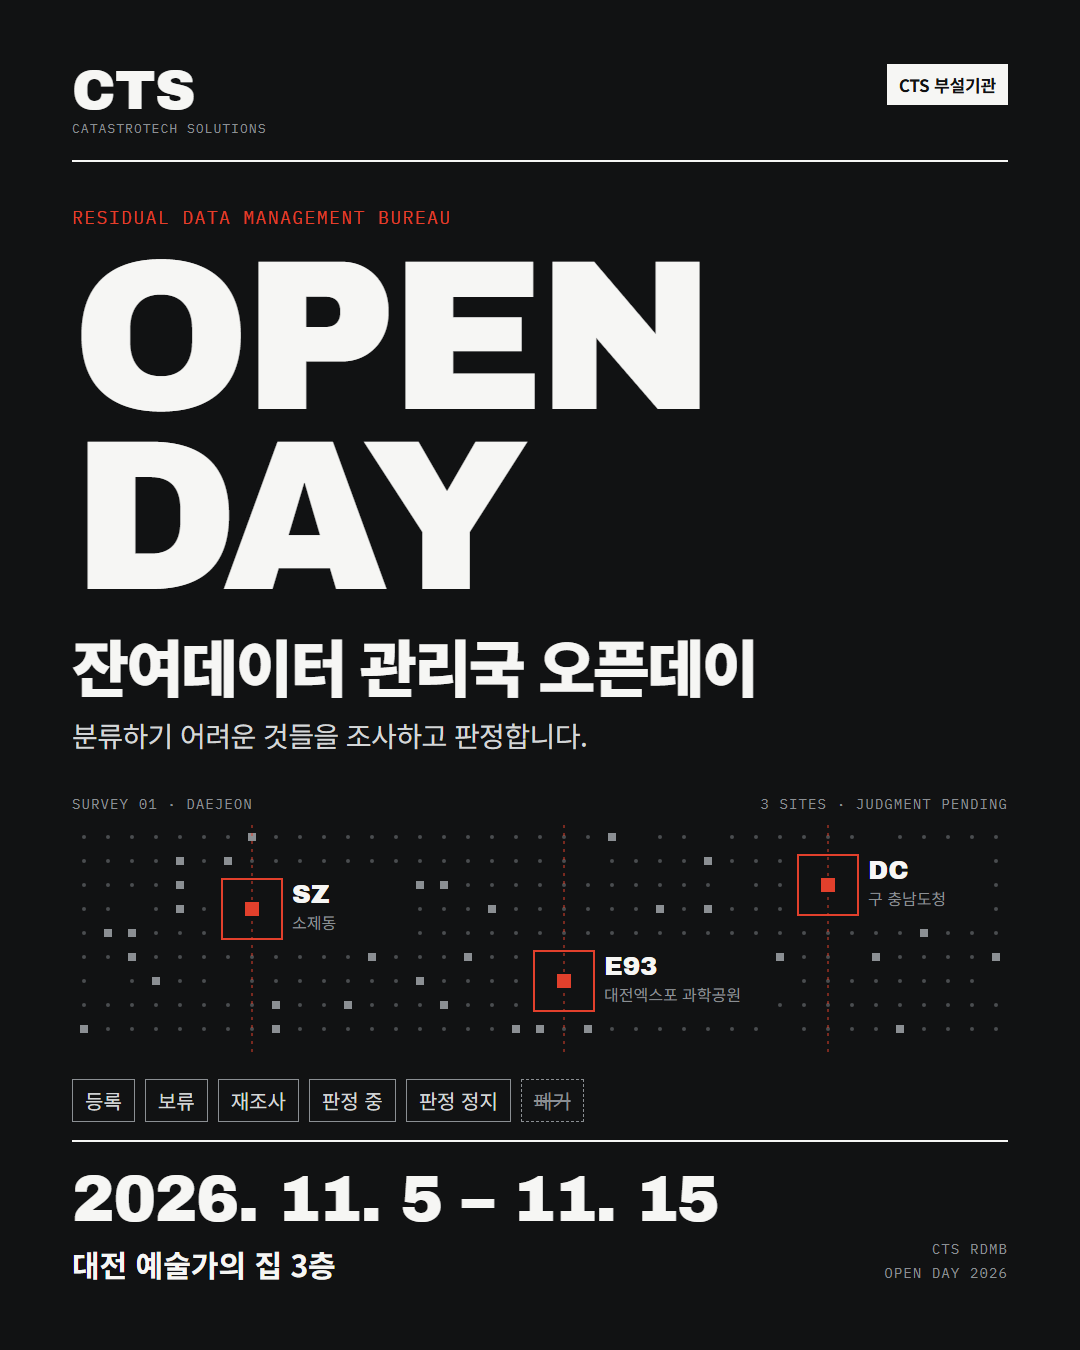
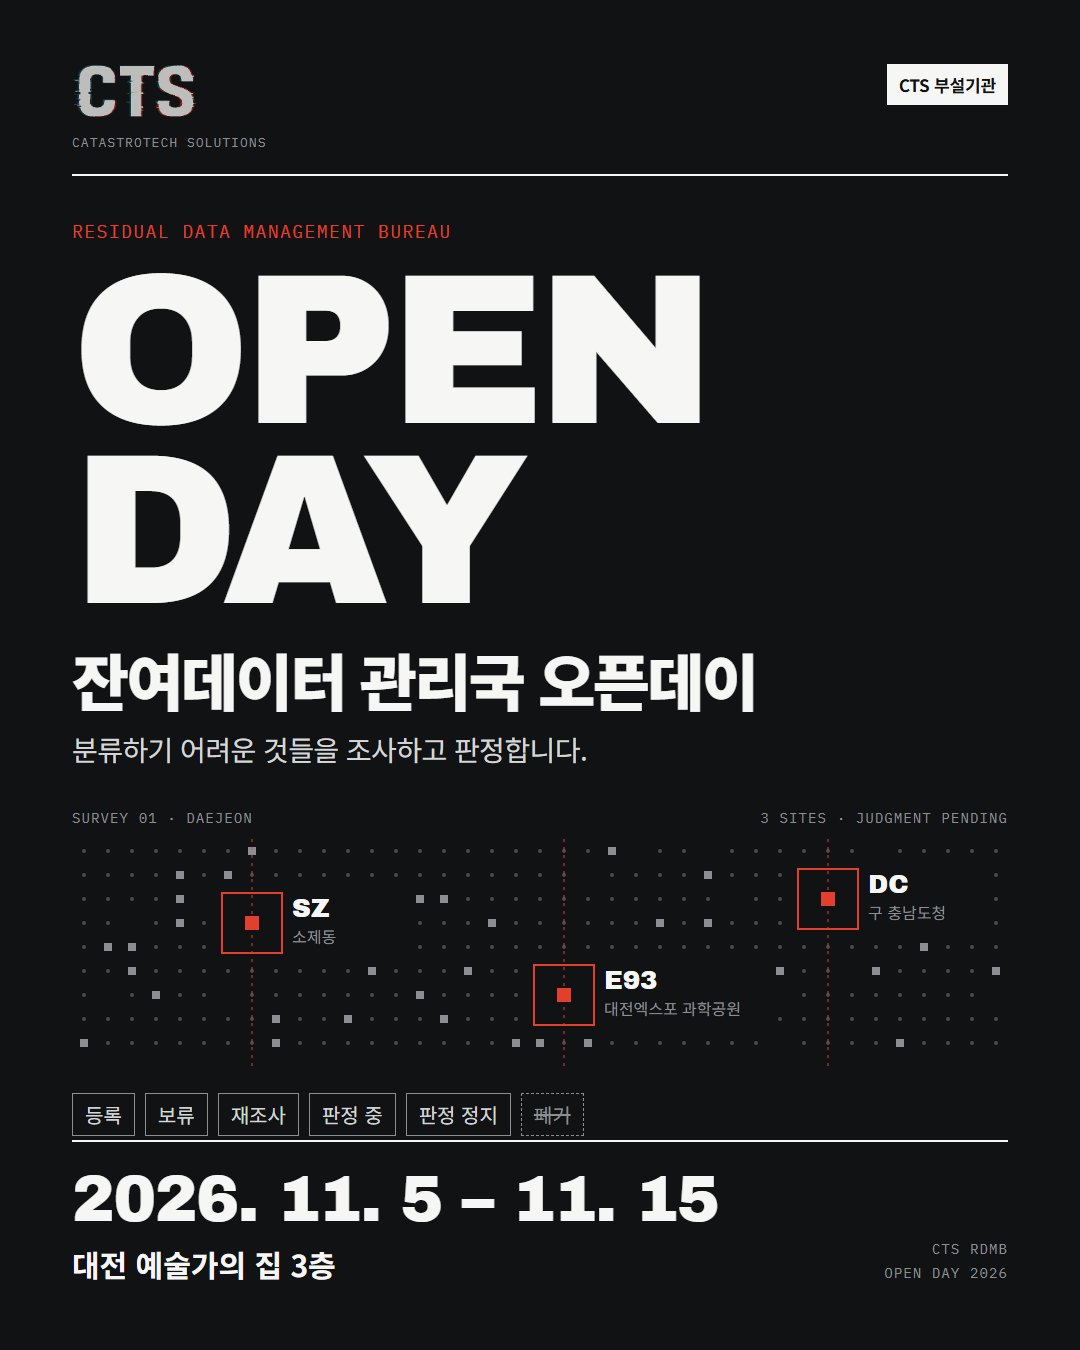
사이트 헤더와 오픈데이 포스터에 CTS 공식 로고 적용

diff --git a/css/style.css b/css/style.css
@@ -29,7 +29,7 @@ body::before{content:"";position:fixed;inset:0 0 auto;height:env(safe-area-inset
 header{position:sticky;top:env(safe-area-inset-top,0px);z-index:20;background:color-mix(in srgb,var(--paper) 92%,transparent);backdrop-filter:blur(8px);border-bottom:1px solid var(--rule)}
 header .wrap{display:flex;align-items:center;justify-content:space-between;gap:16px;padding-block:12px}
 .logo{display:flex;flex-direction:column;line-height:1;text-decoration:none}
-.logo b{font-family:var(--f-display);font-size:24px;letter-spacing:.02em}
+.logo img{display:block;height:30px;width:auto;align-self:flex-start}
 .logo span{font-family:var(--f-mono);font-size:9px;letter-spacing:.22em;margin-top:4px;color:var(--ink-soft)}
 nav{display:flex;gap:22px;flex-wrap:wrap;justify-content:flex-end}
 nav a{text-decoration:none;font-size:14px;font-weight:500}

diff --git a/company/index.html b/company/index.html
@@ -20,7 +20,7 @@
 
 <header>
   <div class="wrap">
-    <a class="logo" href="../" aria-label="CTS 홈"><b>CTS</b><span>CATASTROTECH SOLUTIONS</span></a>
+    <a class="logo" href="../" aria-label="CTS 홈"><img src="../img/cts-mark.png" alt="CTS" width="360" height="155"><span>CATASTROTECH SOLUTIONS</span></a>
     <nav aria-label="주 메뉴">
       <a href="../greeting/">인사말</a>
       <a href="../company/" aria-current="page">회사</a>

diff --git a/greeting/index.html b/greeting/index.html
@@ -20,7 +20,7 @@
 
 <header>
   <div class="wrap">
-    <a class="logo" href="../" aria-label="CTS 홈"><b>CTS</b><span>CATASTROTECH SOLUTIONS</span></a>
+    <a class="logo" href="../" aria-label="CTS 홈"><img src="../img/cts-mark.png" alt="CTS" width="360" height="155"><span>CATASTROTECH SOLUTIONS</span></a>
     <nav aria-label="주 메뉴">
       <a href="../greeting/" aria-current="page">인사말</a>
       <a href="../company/">회사</a>

diff --git a/bureau/index.html b/bureau/index.html
@@ -20,7 +20,7 @@
 
 <header>
   <div class="wrap">
-    <a class="logo" href="../" aria-label="CTS 홈"><b>CTS</b><span>CATASTROTECH SOLUTIONS</span></a>
+    <a class="logo" href="../" aria-label="CTS 홈"><img src="../img/cts-mark.png" alt="CTS" width="360" height="155"><span>CATASTROTECH SOLUTIONS</span></a>
     <nav aria-label="주 메뉴">
       <a href="../greeting/">인사말</a>
       <a href="../company/">회사</a>

diff --git a/new/index.html b/new/index.html
@@ -21,7 +21,7 @@
 
 <header>
   <div class="wrap">
-    <a class="logo" href="../" aria-label="CTS 홈"><b>CTS</b><span>CATASTROTECH SOLUTIONS</span></a>
+    <a class="logo" href="../" aria-label="CTS 홈"><img src="../img/cts-mark.png" alt="CTS" width="360" height="155"><span>CATASTROTECH SOLUTIONS</span></a>
     <nav aria-label="주 메뉴">
       <a href="../greeting/">인사말</a>
       <a href="../company/">회사</a>

diff --git a/popup/index.html b/popup/index.html
@@ -20,7 +20,7 @@
 
 <header>
   <div class="wrap">
-    <a class="logo" href="../" aria-label="CTS 홈"><b>CTS</b><span>CATASTROTECH SOLUTIONS</span></a>
+    <a class="logo" href="../" aria-label="CTS 홈"><img src="../img/cts-mark.png" alt="CTS" width="360" height="155"><span>CATASTROTECH SOLUTIONS</span></a>
     <nav aria-label="주 메뉴">
       <a href="../greeting/">인사말</a>
       <a href="../company/">회사</a>

diff --git a/products/index.html b/products/index.html
@@ -20,7 +20,7 @@
 
 <header>
   <div class="wrap">
-    <a class="logo" href="../" aria-label="CTS 홈"><b>CTS</b><span>CATASTROTECH SOLUTIONS</span></a>
+    <a class="logo" href="../" aria-label="CTS 홈"><img src="../img/cts-mark.png" alt="CTS" width="360" height="155"><span>CATASTROTECH SOLUTIONS</span></a>
     <nav aria-label="주 메뉴">
       <a href="../greeting/">인사말</a>
       <a href="../company/">회사</a>

diff --git a/index.html b/index.html
@@ -20,7 +20,7 @@
 
 <header>
   <div class="wrap">
-    <a class="logo" href="./" aria-label="CTS 홈"><b>CTS</b><span>CATASTROTECH SOLUTIONS</span></a>
+    <a class="logo" href="./" aria-label="CTS 홈"><img src="./img/cts-mark.png" alt="CTS" width="360" height="155"><span>CATASTROTECH SOLUTIONS</span></a>
     <nav aria-label="주 메뉴">
       <a href="greeting/">인사말</a>
       <a href="company/">회사</a>
